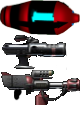
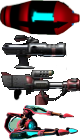
GAME is now in BETA, also the sheep A Nator works

diff --git a/LineRunnerShooter/LineRunnerShooter/Hiro.cs b/LineRunnerShooter/LineRunnerShooter/Hiro.cs
@@ -16,98 +16,16 @@ namespace LineRunnerShooter
      * 
      */ 
 
-        /*
-    class Hiro : User
-    {
-        protected bool jumpAllowed;
-        protected int _JumpHeight;
-        private double invincebleTime;
-        ShotARM SingleShotArm;
-        ShotARM TripleShotArm;
-
-
-        public Hiro(Texture2D textureL, Texture2D textureR, MoveMethod move, Texture2D armtexture, Texture2D bullet, int posX, int posY) : base(textureL, textureR, move, bullet)
-        {
-            _spritePos = new Rectangle(0, 0, 100, 195);
-            _Position.X = posX;
-            _Position.Y = posY;
-            SingleShotArm = new ShotARM(armtexture, bullet,1);
-            TripleShotArm = new ShotARM(armtexture, bullet,3);
-            _JumpHeight = 15;
-            invincebleTime = 0;
-            collisionBox = new CollisionBox(Convert.ToInt16(_Position.X), Convert.ToInt16(_Position.Y), _spritePos.Width, _spritePos.Height);
-        }
-
-        public void Update(GameTime gameTime, KeyboardState stateKey, MouseState mouse, Vector2 camPos, Vector2 mouseLoc)
-        {
-            CheckAction();
-            _MoveMethod.Update(stateKey, mouse, canLeft, canRight);
-            base.Update(gameTime, stateKey, mouse, camPos);
-            arm.Update(gameTime, _Position, mouseLoc);
-            if (isGrounded)
-            {
-                jumpAllowed = true;
-            }
-            invincebleTime -= gameTime.ElapsedGameTime.TotalMilliseconds;
-        }
-
-        private void CheckAction()
-        {
-            if (_MoveMethod.isShooting)
-            {
-                arm.Fire();
-            }
-            if (_MoveMethod.isJump)
-            {
-                Jump();
-            }
-        }
-        private void Jump()
-        {
-            if (jumpAllowed)
-            {
-                isGrounded = false;
-                jumpAllowed = false;
-                _Velocity.Y = -_JumpHeight;
-            }
-        }
-
-        public void setStartPos()
-        {
-            _Position = new Vector2(150, 1700);
-            _Velocity = new Vector2(0, 0);
-        }
-
-        public override void draw(SpriteBatch spriteBatch)
-        {
-            _spritePos = new Rectangle(0, 0, 100, 200);
-            spriteBatch.Draw(_texture[_Action], _Position, _spritePos, Color.White);
-            arm.Draw(spriteBatch);
-            if(invincebleTime > 20)
-            {
-                spriteBatch.Draw(_texture[_Action], _Position, _spritePos, Color.Red);
-            }
-            //base.draw(spriteBatch);
-        }
-
-        public void checkHit(Rectangle hitObject)
-        {
-            if (collisionBox.Body.Intersects(hitObject))
-            {
-                _lives--;
-                invincebleTime = 500;
-            }
-        }
-    }
-    */
     class Hiro2 : User
     {
         protected bool jumpAllowed;
         protected int _JumpHeight;
         private double invincebleTime;
         List<ARMBluePrint> arsenal;
-        int selectedARM = 1;
+        int selectedARM = 0;
+        int maxArms = 5;
 
+        public int MaxArms { get { return maxArms; } set { if (value > maxArms) { maxArms = value; }} }
 
         public Hiro2(int texture, MoveMethod move, Texture2D armtexture, Texture2D bullet, Vector2 location) : base(texture,  move, bullet)
         {
@@ -118,6 +36,7 @@ namespace LineRunnerShooter
             arsenal.Add(new ShotARM(armtexture, bullet,1));
             arsenal.Add( new ShotARM(armtexture, bullet,3));
             arsenal.Add(new FlameThrower(armtexture, bullet));
+            arsenal.Add(new SheepANator(armtexture, bullet));
             _JumpHeight = 15;
             invincebleTime = 0;
             collisionBox = new CollisionBox(Convert.ToInt16(_Position.X), Convert.ToInt16(_Position.Y), _spritePos.Width, _spritePos.Height);
@@ -126,6 +45,7 @@ namespace LineRunnerShooter
         public void Update(GameTime gameTime, KeyboardState stateKey, MouseState mouse, Vector2 camPos, Vector2 mouseLoc, List<BulletBlueprint> bullets)
         {
             CheckAction();
+            (_MoveMethod as MovePlayer).maxWeapon = maxArms;
             _MoveMethod.Update(stateKey, mouse, canLeft, canRight);
             base.Update(gameTime, stateKey, mouse, camPos, bullets);
             arsenal[selectedARM].Update(gameTime, _Position, mouseLoc);
@@ -239,6 +159,7 @@ namespace LineRunnerShooter
     {
         private bool lastShootState = false;
         public int selWeapon;
+        public int maxWeapon = 2;
         public override void Update(KeyboardState stateKey, MouseState mouseState, bool canLeft, bool canRight)
         {
 
@@ -264,7 +185,7 @@ namespace LineRunnerShooter
                 lastShootState = true;
             }
 
-            if ((mouseState.LeftButton == ButtonState.Released) || selWeapon == 2)
+            if ((mouseState.LeftButton == ButtonState.Released) || selWeapon > 1)
             {
                 lastShootState = false;
             }
@@ -282,9 +203,13 @@ namespace LineRunnerShooter
             {
                 selWeapon = 1;
             }
-            else if (stateKey.IsKeyDown(Keys.D3))
+            else if (stateKey.IsKeyDown(Keys.D3) && maxWeapon > 2)
             {
                 selWeapon = 2;
+            }
+            else if (stateKey.IsKeyDown(Keys.D4) && maxWeapon > 3)
+            {
+                selWeapon = 3;
             }
 
         }

diff --git a/LineRunnerShooter/LineRunnerShooter/ARM.cs b/LineRunnerShooter/LineRunnerShooter/ARM.cs
@@ -205,11 +205,10 @@ namespace LineRunnerShooter
         }
 
         public List<BulletBlueprint> getBullets()
-        {
+        {   
             List<BulletBlueprint> bullets = new List<BulletBlueprint>();
             bullets.Add(meleeBullet);
             return bullets;
-
         }
 
         public void setDamage(int damage)
@@ -220,6 +219,8 @@ namespace LineRunnerShooter
         public void disable()
         {
             meleeBullet.resetBullet();
+            
+            
         }
     }
 
@@ -262,6 +263,49 @@ namespace LineRunnerShooter
             foreach (Flame f in bullets)
             {
                 f.Update(_position,angle,isFired);
+            }
+            isFired = false;
+        }
+    }
+    class SheepANator : ARMBluePrint
+    {
+        bool isFired;
+        public SheepANator(Texture2D texture, Texture2D flame) : base(texture)
+        {
+            bullets = new List<BulletBlueprint>();
+            isFired = false;
+            for (int i = 1; i < 10; i++)
+            {
+                bullets.Add(new SheepBeam(flame, new Vector2(0, 1000), new Vector2(25, 25), i % 2, 0, i));
+            }
+            sourceRectangle.Y = 115;
+        }
+
+        public override void Fire()
+        {
+            isFired = true;
+        }
+
+        public override List<BulletBlueprint> getBullets()
+        {
+            return (bullets);
+        }
+
+
+        public override void Update(GameTime gameTime, Vector2 position, Vector2 mouse)
+        {
+            _position = position;
+            _position.X += 40;
+            _position.Y += 65;
+
+            float xVers = -mouse.X + _position.X;
+            float yVers = -mouse.Y + _position.Y;
+            angle = (float)Math.Atan2(xVers, yVers) + (float)(Math.PI / 2);
+            //Console.WriteLine(angle);
+
+            foreach (SheepBeam f in bullets)
+            {
+                f.Update(_position, angle, isFired);
             }
             isFired = false;
         }

diff --git a/LineRunnerShooter/LineRunnerShooter/Z_PhysicsBox.cs b/LineRunnerShooter/LineRunnerShooter/Z_PhysicsBox.cs
@@ -12,7 +12,7 @@ namespace LineRunnerShooter
      * This class is contains some deseases (bad english), do not touch until it is finished (or at least working)
      * 
      */
-    class PhysicsBox
+    class Z_PhysicsBox
     {
         protected double time; //for update 
 
@@ -28,7 +28,7 @@ namespace LineRunnerShooter
 
         public Vector2 Location { get { return _Position; } }
 
-        public PhysicsBox(MoveMethod move, Vector2 startPos, Vector2 resetPos)
+        public Z_PhysicsBox(MoveMethod move, Vector2 startPos, Vector2 resetPos)
         {
             _Position = startPos;
             time = 0;
@@ -39,7 +39,7 @@ namespace LineRunnerShooter
             maxSpeed = 15;
             _VelocityChange = new Vector2(0, 0);
         }
-        public PhysicsBox(MoveMethod move, Vector2 startPos, Vector2 resetPos, int slow, int gravity, int maxSpeed)
+        public Z_PhysicsBox(MoveMethod move, Vector2 startPos, Vector2 resetPos, int slow, int gravity, int maxSpeed)
         {
             _Position = startPos;
             time = 0;

diff --git a/LineRunnerShooter/LineRunnerShooter/Game1.cs b/LineRunnerShooter/LineRunnerShooter/Game1.cs
@@ -9,6 +9,7 @@ namespace LineRunnerShooter //TODO: REFRACTOR REQUIRED !!
 {
     /// <summary>
     /// This is the main type for your game.
+    /// Explenation required
     /// </summary>
     /// 
     //http://rbwhitaker.wikidot.com/monogame-drawing-text-with-spritefonts Text in the game
@@ -110,7 +111,8 @@ namespace LineRunnerShooter //TODO: REFRACTOR REQUIRED !!
             _afbeeldingEnemys.Add(Content.Load<Texture2D>("TestGuyHDR"));
             _afbeeldingEnemys.Add(Content.Load<Texture2D>("SpShSmallGuy"));
             _afbeeldingEnemys.Add(Content.Load<Texture2D>("Fireball"));
-            _afbeeldingEnemys.Add(Content.Load<Texture2D>("FireballUp"));
+            _afbeeldingEnemys.Add(Content.Load<Texture2D>("FireballUp")); //10
+            _afbeeldingEnemys.Add(Content.Load<Texture2D>("Sheep")); //
 
 
             _levelMaps = new List<Texture2D>();

diff --git a/LineRunnerShooter/LineRunnerShooter/User.cs b/LineRunnerShooter/LineRunnerShooter/User.cs
@@ -260,12 +260,24 @@ namespace LineRunnerShooter
                     if (collisionBox.Body.Intersects(bullets[i].CollisionRect))
                     {
                         takeDamage(bullets[i].hitTarget());
+                        
+                        if(bullets[i] is SheepBeam && _lives < 3)
+                        {
+                            sheep();
+                        }
                         i = bullets.Count + 1;
                     }
                     i++;
                 }
             }
 
+        }
+
+        protected virtual void sheep()
+        {
+            _texture = General._afbeeldingEnemys[11];
+            _spritePos = new Rectangle(0, 0, 100, 200);
+            _lives = 100000;
         }
 
         protected virtual void takeDamage(int damage)

diff --git a/LineRunnerShooter/LineRunnerShooter/Bullet.cs b/LineRunnerShooter/LineRunnerShooter/Bullet.cs
@@ -246,8 +246,8 @@ namespace LineRunnerShooter
             Positie = pos;
             if (isFired)
             {
-                Positie.X += (float)(Math.Cos(angle) * (float)(_id * _size.X) * 1.5 + (General.r.Next(-5, 5) * _id));
-                Positie.Y += -(float)(Math.Sin(angle) * (float)(_id * _size.Y) * 1.5 + (General.r.Next(-5, 5) * _id));
+                Positie.X += (float)(Math.Cos(angle) * (float)(_id * _size.X) * 1.5 );
+                Positie.Y += -(float)(Math.Sin(angle) * (float)(_id * _size.Y) * 1.5);
             }
             else
             {

diff --git a/LineRunnerShooter/LineRunnerShooter/Orih.cs b/LineRunnerShooter/LineRunnerShooter/Orih.cs
@@ -162,7 +162,13 @@ namespace LineRunnerShooter
                 }
             }
         }
-        
+        protected override void sheep()
+        {
+            base.sheep();
+            robotARM.disable();
+            robotARM.setDamage(0);
+        }
+
         public virtual List<BulletBlueprint> getBullets()
         {
             return robotARM.getBullets();
@@ -202,6 +208,8 @@ namespace LineRunnerShooter
         {
             movedir = Math.Abs(movedir - 1);
         }
+
+        
     }
     
 }
